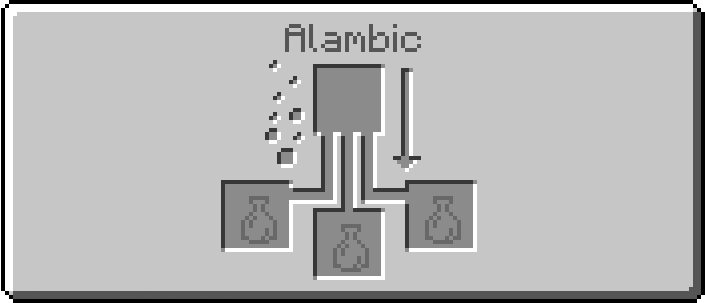
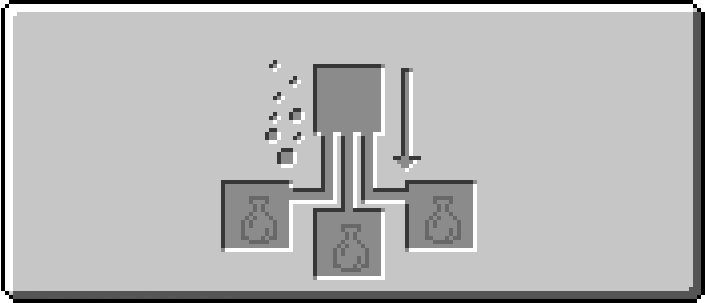
update des images

Changed region(s): [[0.4057, 0.0594, 0.5929, 0.1782]]

diff --git a/CraftingMemento/src/view/components/ShadowLabel.java b/CraftingMemento/src/view/components/ShadowLabel.java
@@ -95,6 +95,7 @@ public class ShadowLabel extends JLabel {
 				textLayout.draw(g1, x, y);
 			}
 		}
+		else super.paint(g);
 
 	}
 
